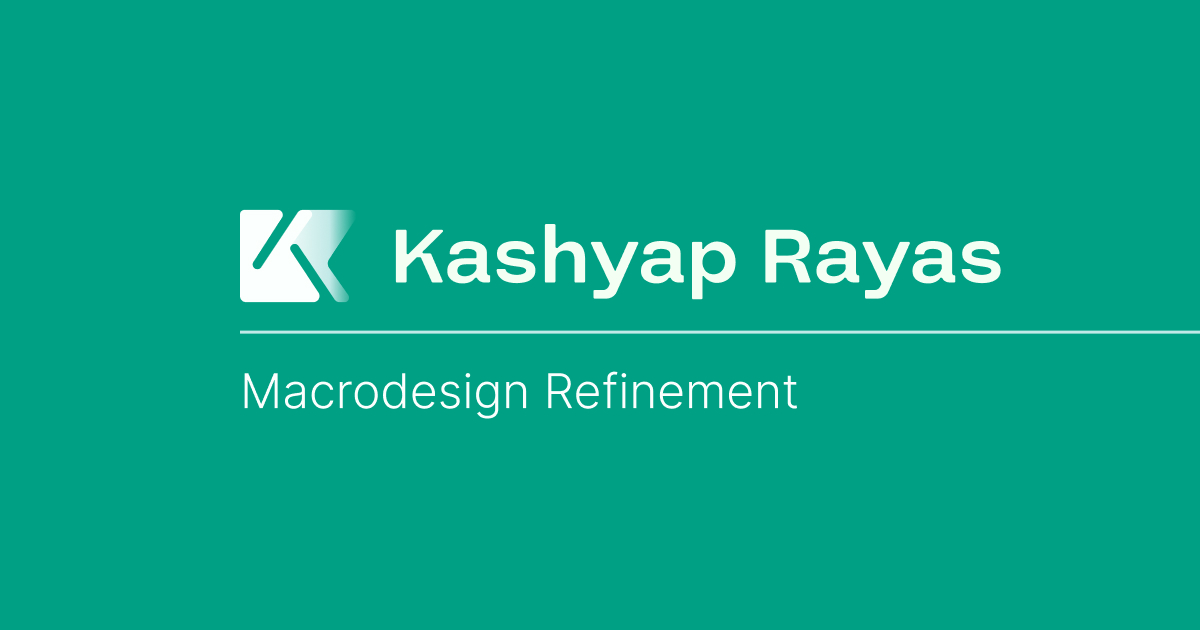
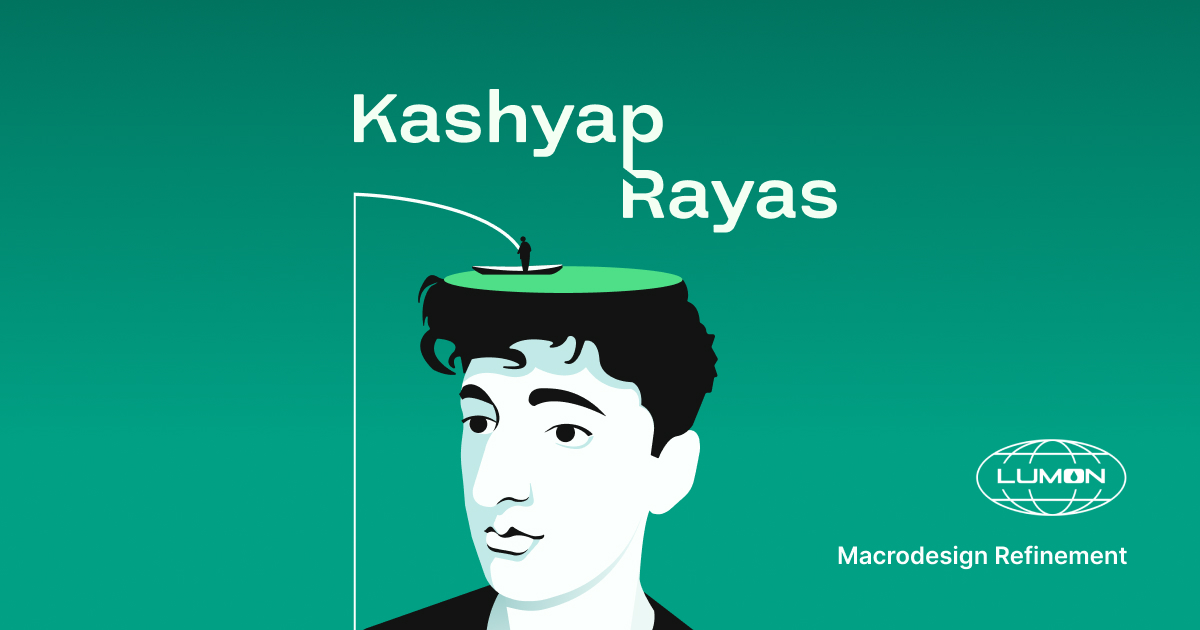
added tab focus title switch and changed og image

diff --git a/src/App.jsx b/src/App.jsx
@@ -3,7 +3,6 @@ import './App.css'
 import { ReactLenis, useLenis } from 'lenis/react'
 
 import Preloader from './components/Preloader/Preloader.jsx'
-import { useAssetPreloader } from "./hooks/useAssetPreloader.js"
 import Landing from './pages/Landing.jsx'
 import Project from './pages/Project.jsx'
 import TransitionLoader from './components/TransitionLoader/TransitionLoader.jsx'
@@ -31,6 +30,18 @@ function App() {
         if ('scrollRestoration' in window.history) {
             window.history.scrollRestoration = 'manual';
         }
+    }, []);
+
+    useEffect(() => {
+        const originalTitle = document.title;
+        const hiddenTitle = "Observation paused.";
+
+        const handleVisibilityChange = () => {
+            document.title = document.hidden ? hiddenTitle : originalTitle;
+        };
+
+        document.addEventListener("visibilitychange", handleVisibilityChange);
+        return () => document.removeEventListener("visibilitychange", handleVisibilityChange);
     }, []);
 
     const handleMidway = useCallback(() => {
